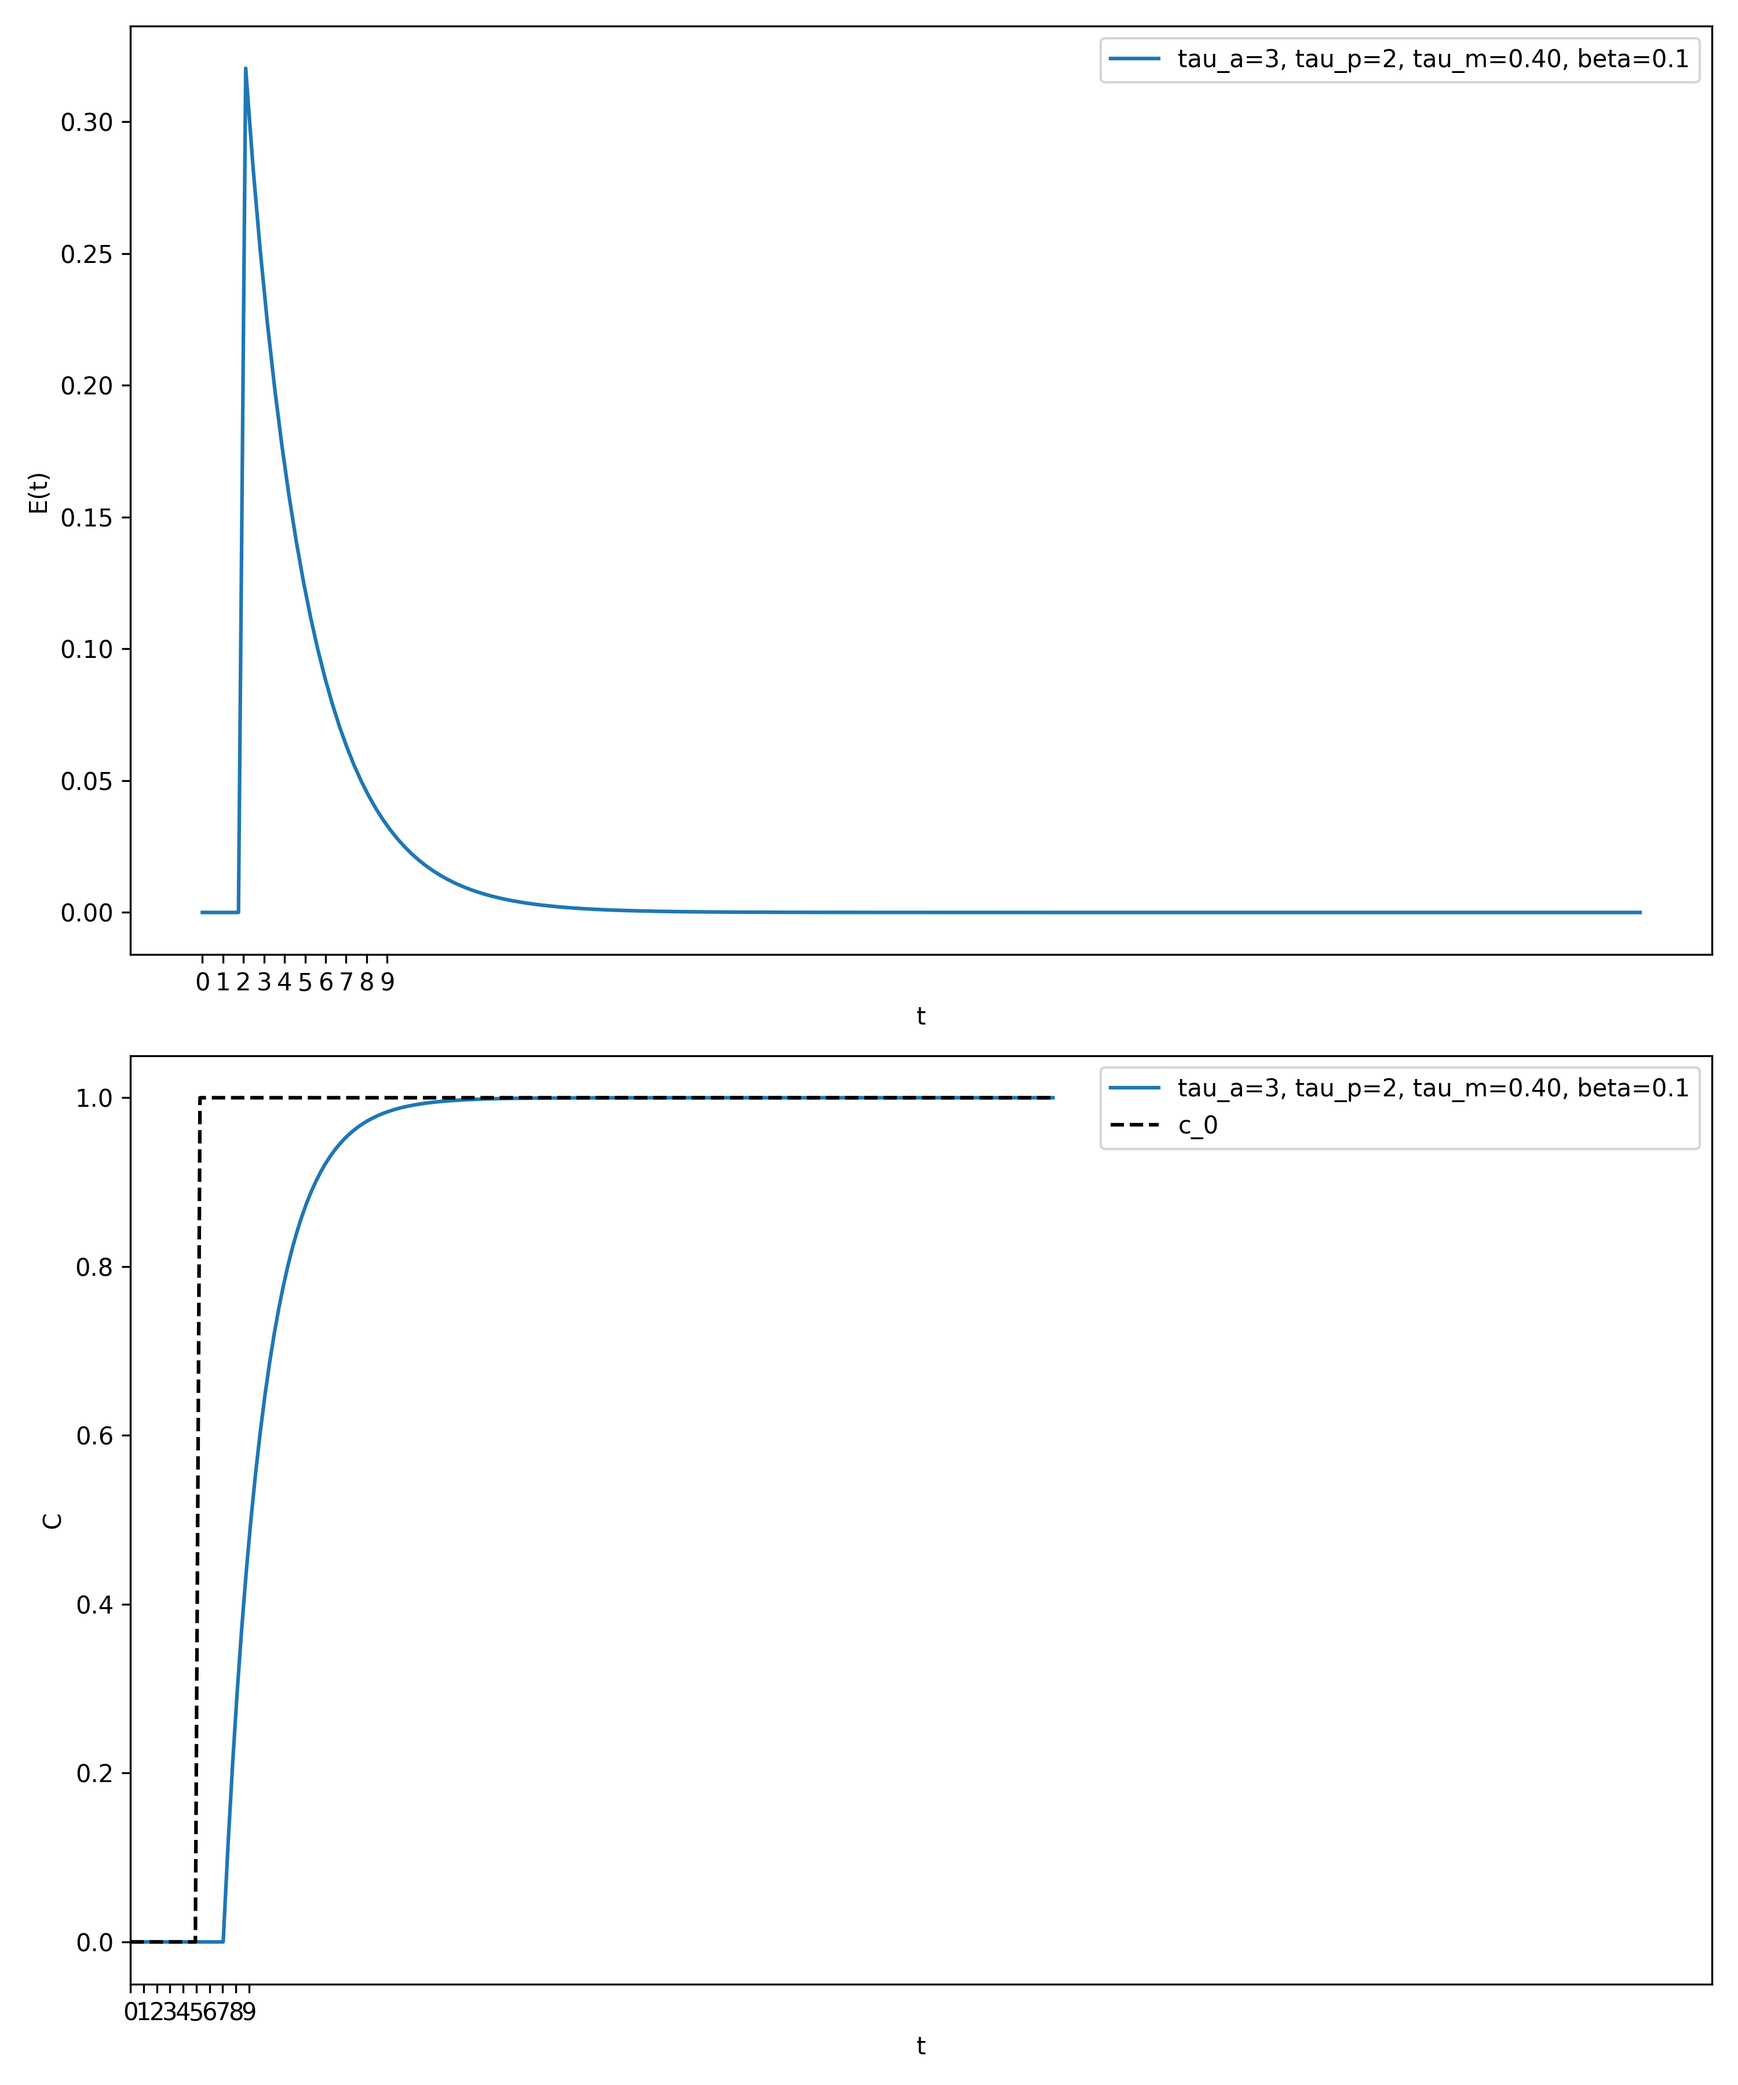
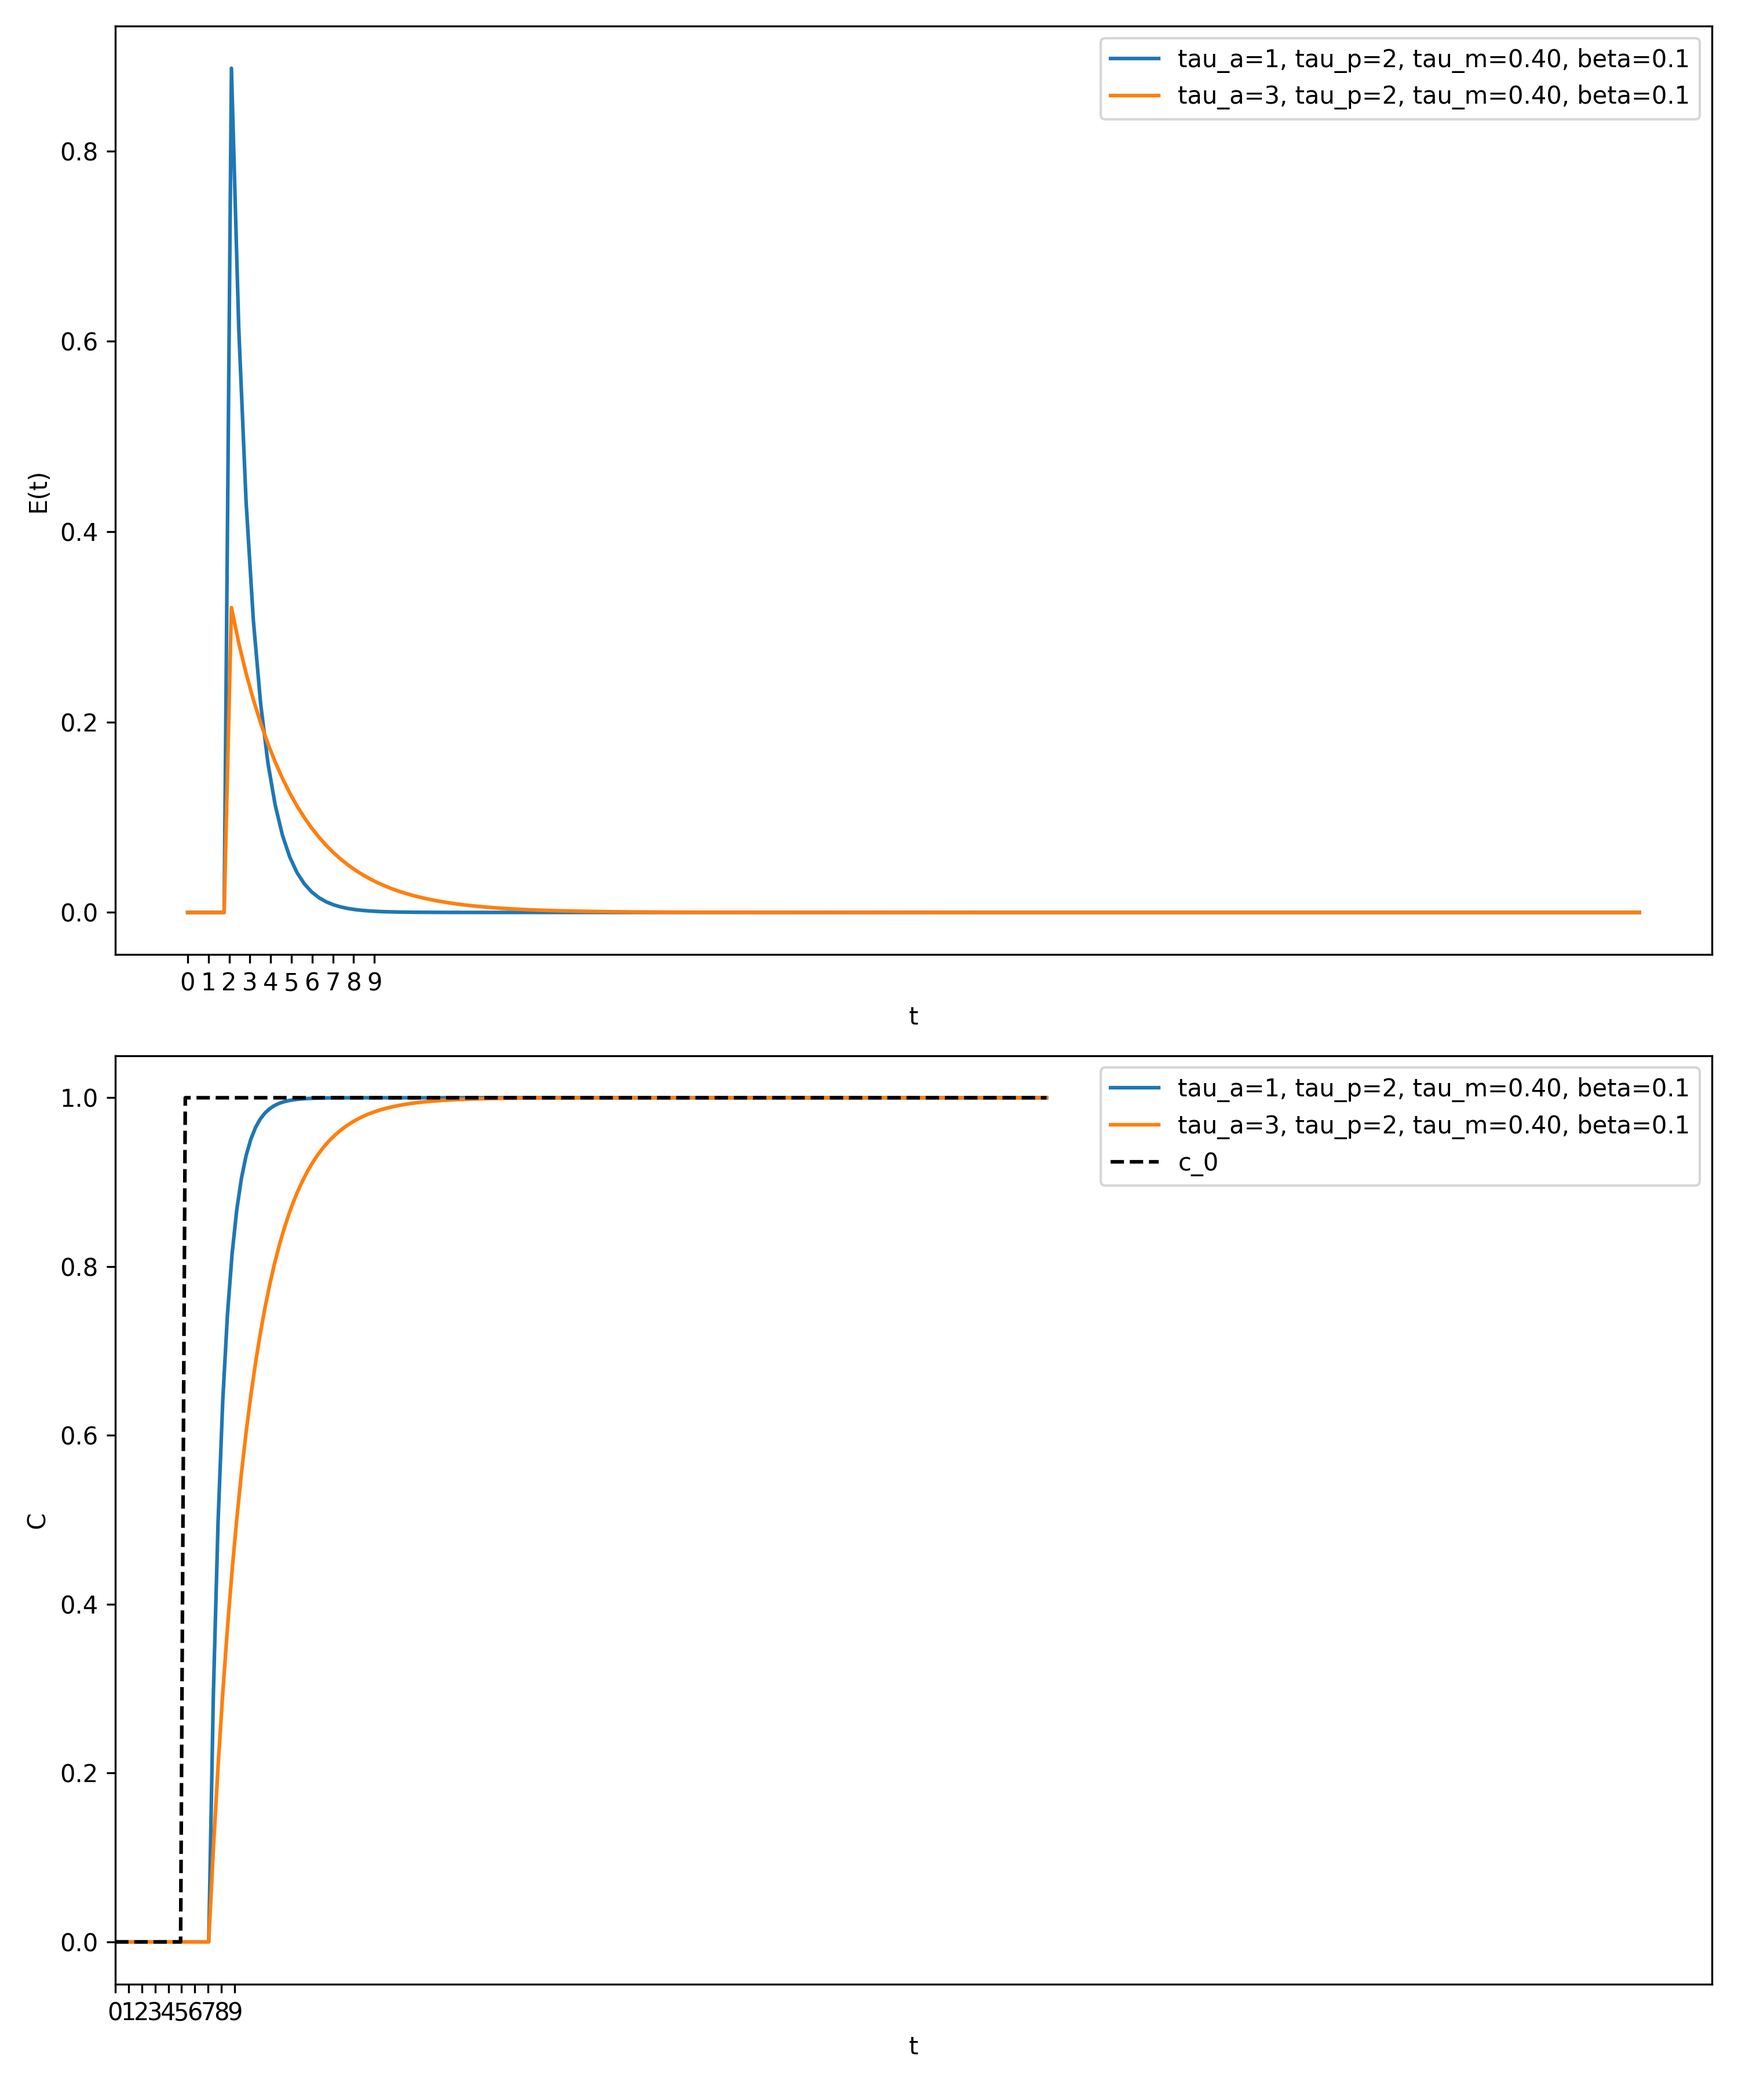
Adler H.

diff --git a/Experiments/Preliminary/Convolution_script/Convolution_023_Adler_havarka_Model/Convolution_023_Adler_h_tau_3.py b/Experiments/Preliminary/Convolution_script/Convolution_023_Adler_havarka_Model/Convolution_023_Adler_h_tau_3.py
@@ -18,15 +18,17 @@ import os
 import datetime
 import sympy as sp
 from sympy import ceiling
+from ICIW_Plots import cm2inch
 
 if wandb.run is not None:
     wandb.finish()
+# module_path = os.path.expanduser("~/Documents/GitHub/nRTD/lib")
+# sys.path.append(module_path)
 
-#tau_5_dir = r'D:\Tuana\nRTD\Experiments\Preliminary\Litrature\Unified_time_delay'
-tau_5_dir = '/Users/tuanaoyuncu/Documents/GitHub/nRTD/Experiments/Preliminary/Litrature/Unified_time_delay'
 
-
-epoch=150000
+#adler_dir = r'D:\Tuana\nRTD\Experiments/Preliminary/Litrature/Adler_havarka_Model/tau_a_val_3_tau_p_val_2_tau_m_val_0.4000000000000001_beta_val_0.1_2210'
+adler_dir = '/Users/tuanaoyuncu/Documents/GitHub/nRTD/Experiments/Preliminary/Litrature/Adler_havarka_Model/tau_a_val_3_tau_p_val_2_tau_m_val_0.4000000000000001_beta_val_0.1_2210'
+epoch=100000
 n_in_1, n_out_1, n_e_1, = sp.symbols(
     "n_in_1 n_out_1 n_e_1 ", positive=True, real=True
 )
@@ -64,8 +66,8 @@ sub_dict = {
     n_out_1: 200,
     # n_e_1,
     t_i: 40,
-    t_o:60,
-    t_e_1:20,
+    t_o:70,
+    t_e_1:30,
 }
 result_dict = {}
 
@@ -94,10 +96,8 @@ print("t_o =", t_o)
 print("t_i =", t_i)
 print("t_e_1 =", t_e_1)
 
-t_conv_tau = torch.tensor(np.load(os.path.join(tau_5_dir, 'time_J2_tau1_alpha0.2.npy')), dtype=torch.float32).unsqueeze(0).unsqueeze(0)
-c_out_tau = torch.tensor(np.load(os.path.join(tau_5_dir, 'concentration_J2_tau1_alpha0.2.npy')), dtype=torch.float32).unsqueeze(0).unsqueeze(0)
-
-
+t_conv_tau = torch.tensor(np.load(os.path.join(adler_dir, 'time.npy')), dtype=torch.float32).unsqueeze(0).unsqueeze(0)
+c_out_tau = torch.tensor(np.load(os.path.join(adler_dir, 'concentration.npy')), dtype=torch.float32).unsqueeze(0).unsqueeze(0)
 n_disc = n_in_1
 t_input = torch.linspace(0, t_i, n_disc)
 c_in = torch.zeros((1, 1, n_disc))
@@ -142,14 +142,13 @@ plt.plot(
 )
 plt.plot(t_E, E, label="E", color="orange")
 plt.legend()
-plt.xlim((0, 70))
+plt.xlim((0, 40))
 plt.ylim((0, 1.1))
 plt.show()
 print(model(c_in).size())
 ds = TensorDataset(c_in, c_out)
 dl = DataLoader(ds, batch_size=20, shuffle=True)
 
-# wandb.init()
 wandb_logger = pl_loggers.WandbLogger(
     project="nRTD",
     log_model=True
@@ -175,37 +174,89 @@ E = model.net.E[0]
 t_E =torch.linspace(0, float(t_e_1), int(model.kernel_sizes[0]))
 E = E / E.max()
 
-plt.plot(t_input, c_in[0, 0, :].numpy(), label="SF", color="blue")
-
-for i in range(c_out.size(1)):
-    plt.plot(
-        t_conv[0, i, :].numpy(),
-        c_out[0, i, :].numpy(),
-        label="",
-        color="green",
-    )
-
-plt.plot(
-    t_conv[0, 0, :].numpy(),
-    c_conv[0, 0, :].detach().numpy(),
-    label="Predicted",
-    color="red",
-)
-
-t_plot = torch.linspace(0, 25, 100).numpy()
-
-E_expected=3.24642*np.exp(-2.34833*t_plot)*t_plot+0.0392897* np.exp(-0.851669 *t_plot) *t_plot - 0.477252 *np.exp(-2.34833* t_plot) + 0.477252* np.exp(-0.851669 *t_plot)
-
-#E_expected[t_plot < 5] = 0
-
+def compute_inverse_laplace(coefficients, t_values):
+    s, t = sp.symbols('s t', real=True, positive=True)
+    alpha = coefficients['alpha_val']
+    results = []  
+    for tau_a_val in coefficients['tau_a_val']:
+        for tau_p_val in coefficients['tau_p_val']:
+            for beta_val in coefficients['beta_val']:
+                tau_m_val = (beta_val * (1 - alpha)) / alpha
+                # Laplace transform equation
+                F_s = (sp.exp(-tau_p_val * s)) / (1 + beta_val + tau_a_val * s - (beta_val / (1 + tau_m_val * s)))
+                f_t = sp.inverse_laplace_transform(F_s, s, t)
+                f_t_numeric = sp.lambdify(t, f_t, modules="numpy")
+                E_t = f_t_numeric(t_values)
+                results.append({
+                    'tau_a_val': tau_a_val,
+                    'tau_p_val': tau_p_val,
+                    'tau_m_val': tau_m_val,
+                    'beta_val': beta_val,
+                    'E_t': E_t
+                })
+    return results
+coefficients = {
+    'tau_a_val': np.array([3]),
+    'tau_p_val': np.array([2]), #####check!
+    'beta_val': np.array([0.1]),
+    'alpha_val': 0.2
+}
+t_plot = np.linspace(0, t_e_1,n_e_1)
+inverse_laplace_results = compute_inverse_laplace(coefficients, t_plot)
+E_expected = inverse_laplace_results[0]['E_t']
 E_expected =E_expected /E_expected.max()
 
-plt.plot(t_plot, E_expected, label="E_Expected", color="purple", linestyle='--')
-plt.plot(t_E, E, label="E_predicted", color="orange")
-#plt.savefig("Figure_conv_unifiedtdelay_J2_tau1")
-plt.xlim((0, 5))
-plt.ylim((0, 1.1))
+fig, (ax1, ax2) = plt.subplots(2, 1, sharex=True, figsize=(10, 8))
+fig.subplots_adjust(hspace=0)  
+ax1.plot(t_input, c_in[0, 0, :].numpy(), label="$SF$", color="blue")
+ax1.plot(t_conv[0, 0, :].numpy(), c_conv[0, 0, :].detach().numpy(), color="red",label=r'$x_{CNN,lam}$')
+for i in range(c_out.size(1)):
+    ax1.plot(
+        t_conv[0, i, :].numpy(),
+        c_out[0, i, :].numpy(),
+        label=r'$x_{th,lam}$',
+        color="black", linestyle="--", linewidth=2.2
+    )
+ax1.set_xlim((0, 31))
+ax1.set_ylim((0, 1.1))
+ax1.set_ylabel('$x$ / $1$')
+ax1.legend()
+ax1.tick_params(labelbottom=False)
+ax2.plot(t_E, E, label="$E_{CNN,lam}$",  color="red")
+ax2.set_xlabel('$t$ / $s$')
+ax2.set_ylabel('$E$ / $1$')
+ax2.plot(t_plot, E_expected, label='$E_{th,lam}$', color='black',linestyle="--", linewidth=2.2)
+ax2.set_xlim((0, 31))
+ax2.set_ylim((0, 1.1))
+ax2.legend()
+plt.xlabel("$t$ / $s$")
+current_date = datetime.datetime.now().strftime("%Y%m%d")
+plt.savefig(f"Figure_plot_{current_date}.png", dpi=300)
+plt.show()
+
+
+predicted_E = E
+predicted_time = t_E              
+expected_E = E_expected                 
+expected_time = t_plot
+save_dir = "/Users/tuanaoyuncu/Documents/GitHub/nRTD/Experiments/Preliminary/Convolution_script/Convolution_023_Adler_havarka_Model"
+np.save(os.path.join(save_dir, 'E_predicted_tau_a_val_3.npy'), predicted_E)
+np.save(os.path.join(save_dir, 't_E_predicted_tau_a_val_3.npy'), predicted_time)
+np.save(os.path.join(save_dir, 'E_expected_tau_a_val_3.npy'), expected_E)
+np.save(os.path.join(save_dir, 't_E_expected_tau_a_val_3.npy'), expected_time)
+
+predicted_E = np.load('/Users/tuanaoyuncu/Documents/GitHub/nRTD/Experiments/Preliminary/Convolution_script/Convolution_023_Adler_havarka_Model/E_predicted_tau_a_val_3.npy')
+predicted_time = np.load('/Users/tuanaoyuncu/Documents/GitHub/nRTD/Experiments/Preliminary/Convolution_script/Convolution_023_Adler_havarka_Model/t_E_predicted_tau_a_val_3.npy')
+plt.plot(t_E, E, label="E", color="orange")
+plt.plot(expected_time-1, expected_E, label='E_expected_tau_a_val_1', color='purple', linestyle='--')
+plt.xlabel('t')
+plt.ylabel('E')
+plt.xlim((predicted_time.min(), predicted_time.max()))
+plt.ylim((0, 1.1))  
+plt.xlim(0,25)
 plt.legend()
+plt.xticks(np.arange(0, 10, 1))  
+#plt.savefig(os.path.join(unified_dir, 'E_saved_21102024_tau_a_val_1.png'), dpi=300)
 plt.show()
 
 import torch
@@ -214,7 +265,6 @@ import numpy as np
 import ICIW_Plots.colors as ICIWcolors
 from ICIW_Plots.figures import Elsevier_Sizes
 import datetime
-from ICIW_Plots import cm2inch
 
 fig, (ax1, ax2) = plt.subplots(2, 1, sharex=True, figsize=(Elsevier_Sizes.double_column["in"], 12 * cm2inch))
 ax1.plot(t_input.numpy(), c_in[0, 0, :].numpy(), label=r"$x_{0(t)}$", color=ICIWcolors.CERULEAN)
@@ -236,15 +286,16 @@ ax1.set_ylabel(r"$x$ / $1$", )
 ax1.legend(loc='best')
 ax1.set_xlim((0, 20))  
 ax1.set_ylim((-0.1, 1.1))  
-ax2.plot(t_E, E, label=r"$\hat{E}_{(t)}$", color=ICIWcolors.CRIMSON, linestyle="--")
-ax2.plot(t_E, E_expected, label=r"$E_{(t)}$", color="purple")
+ax2.plot(t_E, E, label=r"$\hat{E}_{(t)}$",color="black" , linestyle="--")
+ax2.plot(t_E, E_expected, label=r"$E_{(t)}$", color=ICIWcolors.CRIMSON)
 ax2.set_xlabel(r"$t$ / $s$")
 ax2.set_ylabel(r"$E$ / $1$")
 ax2.legend(loc='best')
 ax2.set_xlim((0, 20))  
 ax2.set_ylim((-0.1, 1.1)) 
 current_date = datetime.datetime.now().strftime("%Y%m%d")
-plt.savefig(f"Profiles_2_1_{current_date}.png", dpi=300)
+plt.savefig(f"Profiles_tau_3_{current_date}.png", dpi=300)
 plt.show()
+
 
 

diff --git a/Experiments/Preliminary/Litrature/Adler_havarka_Model/Adler_havarka_Model_002.py b/Experiments/Preliminary/Litrature/Adler_havarka_Model/Adler_havarka_Model_002.py
@@ -31,7 +31,7 @@ def compute_inverse_laplace(coefficients, t_values):
                 
     return results
 coefficients = {
-    'tau_a_val': np.array([3]),   
+    'tau_a_val': np.array([1,3]),   
     'tau_p_val': np.array([2]), 
     'beta_val': np.array([0.1]), 
     'alpha_val': 0.2           
@@ -55,7 +55,7 @@ for result in results:
     valid_indices = t_conv_full <= 70
     t_conv = t_conv_full[valid_indices]
     c_out = c_out_full[valid_indices]
-    unified_dir = os.path.join(base_dir, f'tau_a_val_{tau_a_val}_tau_p_val_{tau_p_val}_tau_m_val_{tau_m_val}_beta_val_{beta_val}_2110')
+    unified_dir = os.path.join(base_dir, f'tau_a_val_{tau_a_val}_tau_p_val_{tau_p_val}_tau_m_val_{tau_m_val}_beta_val_{beta_val}_2210')
     os.makedirs(unified_dir, exist_ok=True)
     np.save(os.path.join(unified_dir, 'time.npy'), t_conv)
     np.save(os.path.join(unified_dir, 'concentration.npy'), c_out)

diff --git a/Experiments/Preliminary/Convolution_script/Convolution_023_Adler_havarka_Model/Convolution_Adler_h_tau_1.py b/Experiments/Preliminary/Convolution_script/Convolution_023_Adler_havarka_Model/Convolution_Adler_h_tau_1.py
@@ -25,8 +25,10 @@ if wandb.run is not None:
 # module_path = os.path.expanduser("~/Documents/GitHub/nRTD/lib")
 # sys.path.append(module_path)
 
+#adler_dir = r'D:\Tuana\nRTD\Experiments/Preliminary/Litrature/Adler_havarka_Model/tau_a_val_1_tau_p_val_2_tau_m_val_0.4000000000000001_beta_val_0.1_2210'
+
 adler_dir = '/Users/tuanaoyuncu/Documents/GitHub/nRTD/Experiments/Preliminary/Litrature/Adler_havarka_Model/tau_a_val_1_tau_p_val_2_tau_m_val_0.4000000000000001_beta_val_0.1_2210'
-epoch=15000
+epoch=100000
 n_in_1, n_out_1, n_e_1, = sp.symbols(
     "n_in_1 n_out_1 n_e_1 ", positive=True, real=True
 )
@@ -324,3 +326,4 @@ ax2.set_ylim((-0.1, 1.1))
 current_date = datetime.datetime.now().strftime("%Y%m%d")
 plt.savefig(f"Profiles_tau_1_{current_date}.png", dpi=300)
 plt.show()
+
